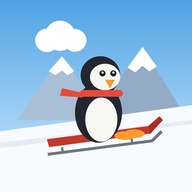
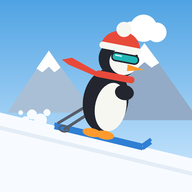
updates

diff --git a/src/main.js b/src/main.js
@@ -134,6 +134,7 @@ let crashTimer = 0;
 const ui = new UI({
   play: () => startCourse(),
   endRun: () => (mode === 'run' || mode === 'crash') && endRun(),
+  pause: (on) => setPaused(on),
   colors: (colors) => {
     skier.setColors(colors);
     writeSave(save);
@@ -209,6 +210,20 @@ function endRun() {
   }, save);
 }
 
+// ---------- pause ----------
+let paused = false;
+function setPaused(on) {
+  if (on && (paused || mode !== 'run')) return;
+  if (!on && !paused) return;
+  paused = on;
+  ui.showPause(on);
+  if (!on) ui.setMode(mode); // bring back the in-run buttons
+}
+// leaving the app (switching tabs, locking the phone) pauses a run
+document.addEventListener('visibilitychange', () => {
+  if (document.hidden) setPaused(true);
+});
+
 // ---------- sound controls ----------
 const muteBtn = document.getElementById('btn-mute');
 function showMute() {
@@ -242,6 +257,8 @@ input.onKeyUp = (code, heldMs) => {
 
 input.onKeyDown = (code) => {
   if (code === 'KeyM') return toggleMute();
+  if (code === 'KeyP' || code === 'Escape') return setPaused(!paused);
+  if (paused) return;
   if (TRICK_KEYS[code]) {
     if (mode === 'run' && body.airborne && !body.crashed) trickPressedInAir.add(code);
     return;
@@ -569,9 +586,14 @@ let last = performance.now();
 const IDLE_FRAME_MS = 30; // the menu and results only need ~30fps behind the overlay
 function frame(now) {
   requestAnimationFrame(frame);
-  if ((mode === 'menu' || mode === 'results') && now - last < IDLE_FRAME_MS) return;
+  if ((paused || (mode === 'menu' || mode === 'results')) && now - last < IDLE_FRAME_MS) return;
   const dt = Math.min(0.05, (now - last) / 1000);
   last = now;
+  if (paused) {
+    sfx.update({ running: false, speed: 0, contact: false, onIce: false, airborne: false, boosting: false });
+    renderer.render(scene, camera);
+    return;
+  }
   time += dt;
 
   if (mode === 'ready') updateReady(dt);

diff --git a/src/ui.js b/src/ui.js
@@ -34,13 +34,19 @@ export class UI {
     $('btn-again').onclick = () => this.h.play();
     $('btn-menu').onclick = () => this.showMenu(this.save);
     $('btn-end').onclick = () => this.h.endRun();
+    $('btn-pause').onclick = () => this.h.pause(true);
+    $('btn-resume').onclick = () => this.h.pause(false);
+    $('btn-pause-end').onclick = () => {
+      this.h.pause(false);
+      this.h.endRun();
+    };
     $('btn-reset').onclick = () => {
       if (confirm('Reset your best score and distance?')) this.h.reset();
     };
   }
 
   show(screen) {
-    for (const id of ['menu', 'results', 'prefs', 'help']) $(id).classList.toggle('hidden', id !== screen);
+    for (const id of ['menu', 'results', 'prefs', 'help', 'pause']) $(id).classList.toggle('hidden', id !== screen);
     this.prefsOpen = screen === 'prefs';
     this.helpOpen = screen === 'help';
   }
@@ -138,6 +144,7 @@ export class UI {
     const playing = mode === 'ready' || mode === 'run' || mode === 'crash';
     $('hud').classList.toggle('hidden', !playing);
     $('btn-end').classList.toggle('hidden', mode !== 'run');
+    $('btn-pause').classList.toggle('hidden', mode !== 'run');
     $('hint').classList.toggle('hidden', mode !== 'ready');
     if (mode !== 'menu') this.show(null);
   }
@@ -163,6 +170,12 @@ export class UI {
 
   resetHud() {
     this.lastScore = -1;
+  }
+
+  // the Paused card covers the game; the in-run buttons step aside while it's up
+  showPause(on) {
+    this.show(on ? 'pause' : null);
+    for (const id of ['btn-pause', 'btn-end']) $(id).classList.toggle('hidden', on);
   }
 
   toast(text) {

diff --git a/index.html b/index.html
@@ -121,7 +121,17 @@
     </div>
   </div>
 
+  <!-- Paused -->
+  <div id="pause" class="overlay hidden">
+    <div class="card">
+      <h2>Paused</h2>
+      <button id="btn-resume" class="btn primary">Resume</button>
+      <button id="btn-pause-end" class="btn">End run</button>
+    </div>
+  </div>
+
   <button id="btn-mute" class="small-btn" aria-label="Mute sound">🔊</button>
+  <button id="btn-pause" class="small-btn hidden" aria-label="Pause">⏸</button>
 
   <script type="module" src="src/main.js"></script>
   <script>

diff --git a/style.css b/style.css
@@ -103,7 +103,8 @@ html, body {
   cursor: pointer;
 }
 
-#btn-mute {
+#btn-mute,
+#btn-pause {
   left: auto;
   bottom: auto;
   top: calc(12px + env(safe-area-inset-top));
@@ -115,6 +116,7 @@ html, body {
   line-height: 36px;
   text-align: center;
 }
+#btn-pause { top: calc(56px + env(safe-area-inset-top)); }
 @media (max-width: 600px) {
   /* the HUD spans the full width on phones; tuck under its right end */
   #btn-mute { top: calc(68px + env(safe-area-inset-top)); }

diff --git a/sw.js b/sw.js
@@ -3,7 +3,7 @@
 // falling back to the cached copy. Three.js and the font come from CDNs and are
 // cache-first, since those URLs never change.
 
-const CACHE = 'just-ski-v3';
+const CACHE = 'just-ski-v5';
 const SHELL = [
   './', 'index.html', 'style.css', 'manifest.json',
   'icons/icon-192.png', 'icons/icon-512.png', 'icons/apple-touch-icon.png', 'icons/favicon-32.png',

diff --git a/tools/make_icons.py b/tools/make_icons.py
@@ -1,18 +1,60 @@
-"""Draws the Just Sled app icons into icons/ (penguin on a red sled on a snowy slope).
+"""Draws the Just Ski app icons into icons/ (a penguin skiing down a snowy slope).
 
 Usage: python3 tools/make_icons.py   (needs Pillow)
 Everything important sits inside the central 80% so the icon also works as a
 maskable icon on Android.
 """
+import math
 import os
 from PIL import Image, ImageDraw
 
 S = 1024  # draw large, then downscale for smooth edges
 OUT = os.path.join(os.path.dirname(os.path.dirname(os.path.abspath(__file__))), "icons")
 
+SLOPE = 0.24  # the snow drops this much per pixel to the right
+
 
 def lerp(a, b, t):
     return tuple(round(a[i] + (b[i] - a[i]) * t) for i in range(3))
+
+
+def snow_y(x):
+    return 600 + x * SLOPE
+
+
+def penguin():
+    """The skier upright on its own layer; (512, 900) is where the boots meet the skis."""
+    layer = Image.new("RGBA", (S, S), (0, 0, 0, 0))
+    d = ImageDraw.Draw(layer)
+    black, white, orange = (0x23, 0x26, 0x2e), (0xf7, 0xf7, 0xf2), (0xff, 0x9a, 0x2e)
+    red, grey = (0xe8, 0x4a, 0x3a), (0x55, 0x5c, 0x68)
+
+    # poles behind, planted back down the hill
+    d.line([(610, 640), (330, 905)], fill=grey, width=16)
+    d.line([(560, 640), (290, 880)], fill=grey, width=16)
+    d.ellipse([300, 880, 360, 920], outline=grey, width=10)
+
+    d.ellipse([400, 540, 640, 880], fill=black)  # body, crouched
+    d.ellipse([470, 610, 635, 870], fill=white)  # belly
+    d.ellipse([430, 870, 530, 915], fill=orange)  # boots
+    d.ellipse([500, 870, 600, 915], fill=orange)
+    d.ellipse([440, 380, 650, 580], fill=black)  # head
+    d.ellipse([500, 420, 650, 560], fill=white)  # face
+    d.polygon([(600, 500), (690, 512), (602, 535)], fill=orange)  # beak
+    # goggles
+    d.rounded_rectangle([505, 445, 655, 495], radius=24, fill=(0x1f, 0xb5, 0xb5), outline=black, width=8)
+    d.line([(525, 462), (560, 462)], fill=(0xc8, 0xf4, 0xf4), width=8)
+    # red bobble hat
+    d.chord([440, 330, 650, 520], 180, 360, fill=red)
+    d.rounded_rectangle([432, 405, 658, 440], radius=16, fill=white)
+    d.ellipse([505, 280, 585, 360], fill=white)
+    # scarf streaming behind
+    d.rounded_rectangle([440, 560, 650, 595], radius=16, fill=red)
+    d.polygon([(450, 570), (300, 520), (290, 560), (450, 595)], fill=red)
+    d.polygon([(300, 520), (250, 540), (290, 560)], fill=red)
+    # flipper holding the pole
+    d.ellipse([560, 610, 660, 690], fill=black)
+    return layer
 
 
 def draw():
@@ -23,40 +65,33 @@ def draw():
         d.line([(0, y), (S, y)], fill=lerp(top, bottom, y / S))
 
     # mountains and a cloud behind
-    d.polygon([(90, 640), (330, 300), (560, 640)], fill=(0xa9, 0xbf, 0xd6))
-    d.polygon([(260, 380), (330, 300), (395, 380), (360, 400), (330, 375), (295, 400)], fill="white")
-    d.polygon([(480, 640), (760, 250), (1000, 640)], fill=(0x93, 0xab, 0xc6))
-    d.polygon([(680, 360), (760, 250), (835, 355), (795, 380), (760, 350), (720, 385)], fill="white")
-    for cx, cy, r in [(250, 215, 62), (320, 190, 80), (400, 215, 60)]:
+    d.polygon([(40, 600), (260, 270), (500, 600)], fill=(0xa9, 0xbf, 0xd6))
+    d.polygon([(195, 365), (260, 270), (322, 360), (290, 385), (260, 355), (225, 385)], fill="white")
+    d.polygon([(460, 640), (770, 230), (1060, 640)], fill=(0x93, 0xab, 0xc6))
+    d.polygon([(690, 335), (770, 230), (848, 335), (808, 360), (770, 330), (730, 365)], fill="white")
+    for cx, cy, r in [(700, 170, 55), (765, 150, 72), (835, 172, 52)]:
         d.ellipse([cx - r, cy - r, cx + r, cy + r], fill="white")
 
-    # snow slope
-    d.polygon([(0, 700), (S, 560), (S, S), (0, S)], fill=(0xf7, 0xfb, 0xff))
-    d.polygon([(0, 760), (S, 640), (S, 660), (0, 790)], fill=(0xe4, 0xed, 0xf6))
+    # snow slope falling to the right, with spray behind the skier
+    d.polygon([(0, snow_y(0)), (S, snow_y(S)), (S, S), (0, S)], fill=(0xf7, 0xfb, 0xff))
+    d.polygon([(0, snow_y(0) + 70), (S, snow_y(S) + 70), (S, snow_y(S) + 92), (0, snow_y(0) + 92)],
+              fill=(0xe4, 0xed, 0xf6))
+    for cx, cy, r in [(215, 640, 34), (170, 610, 26), (135, 640, 20), (250, 600, 18), (110, 600, 12)]:
+        d.ellipse([cx - r, cy - r, cx + r, cy + r], fill=(0xf7, 0xfb, 0xff))
 
-    # sled (tilted with the slope) and runners
-    d.polygon([(250, 742), (790, 672), (802, 712), (262, 784)], fill=(0xc0, 0x39, 0x2b))
-    d.polygon([(790, 672), (850, 620), (868, 640), (802, 712)], fill=(0xa8, 0x2f, 0x23))
-    d.line([(255, 822), (812, 750)], fill=(0x6e, 0x75, 0x80), width=16)
-    d.line([(812, 750), (862, 700)], fill=(0x6e, 0x75, 0x80), width=16)
-    for x, y in [(330, 785), (700, 735)]:
-        d.line([(x, y), (x + 4, y + 28)], fill=(0x6e, 0x75, 0x80), width=12)
+    # skis along the slope, tips curled up at the front
+    angle = math.degrees(math.atan(SLOPE))
+    ski = (0x2f, 0x7f, 0xd4)
+    x0, x1 = 290, 760
+    for off in (0, 18):
+        d.line([(x0, snow_y(x0) - 8 + off), (x1, snow_y(x1) - 8 + off)], fill=ski, width=18)
+        tip = (x1 + 45, snow_y(x1) - 40 + off)
+        d.line([(x1, snow_y(x1) - 8 + off), tip], fill=ski, width=18)
 
-    # penguin sitting on the sled
-    black, white, orange = (0x23, 0x26, 0x2e), (0xf7, 0xf7, 0xf2), (0xff, 0x9a, 0x2e)
-    d.ellipse([400, 440, 650, 760], fill=black)  # body
-    d.ellipse([455, 520, 625, 755], fill=white)  # belly
-    d.ellipse([430, 300, 640, 500], fill=black)  # head
-    d.ellipse([480, 340, 640, 480], fill=white)  # face
-    d.ellipse([530, 375, 562, 407], fill=black)  # eye
-    d.ellipse([588, 375, 620, 407], fill=black)
-    d.ellipse([541, 381, 552, 392], fill="white")
-    d.ellipse([599, 381, 610, 392], fill="white")
-    d.polygon([(560, 425), (612, 425), (586, 470)], fill=orange)  # beak
-    d.rounded_rectangle([425, 480, 655, 515], radius=18, fill=(0xe8, 0x4a, 0x3a))  # scarf
-    d.polygon([(440, 495), (330, 470), (320, 510), (440, 520)], fill=(0xe8, 0x4a, 0x3a))  # scarf tail
-    d.ellipse([610, 700, 720, 745], fill=orange)  # feet out front
-    d.ellipse([660, 690, 770, 735], fill=orange)
+    # the penguin, leaning down the hill and standing on the skis
+    p = penguin().rotate(-angle * 0.8, resample=Image.BICUBIC, center=(512, 900))
+    feet_x = 520
+    img.paste(p, (feet_x - 512, round(snow_y(feet_x) - 5) - 900), p)
     return img
 
 

diff --git a/README.md b/README.md
@@ -18,7 +18,7 @@ Then open http://localhost:5174. (It uses 5174 so it can run alongside Just Sled
 
 Service workers only run on `https://` or `localhost`. On your local network (`http://<your-mac-ip>:5174`) the game still plays, and iOS can still "Add to Home Screen", but it won't work offline and Android won't offer a real install. For the full PWA, serve it over HTTPS (any static host works).
 
-If you add a file under `src/`, add it to `SHELL` in `sw.js`, and bump `CACHE` on every change so phones pick it up. Icons are drawn by `tools/make_icons.py` (needs Pillow). They still show Just Sled's sled.
+If you add a file under `src/`, add it to `SHELL` in `sw.js`, and bump `CACHE` on every change so phones pick it up. Icons are drawn by `tools/make_icons.py` (needs Pillow).
 
 ## How it plays
 
